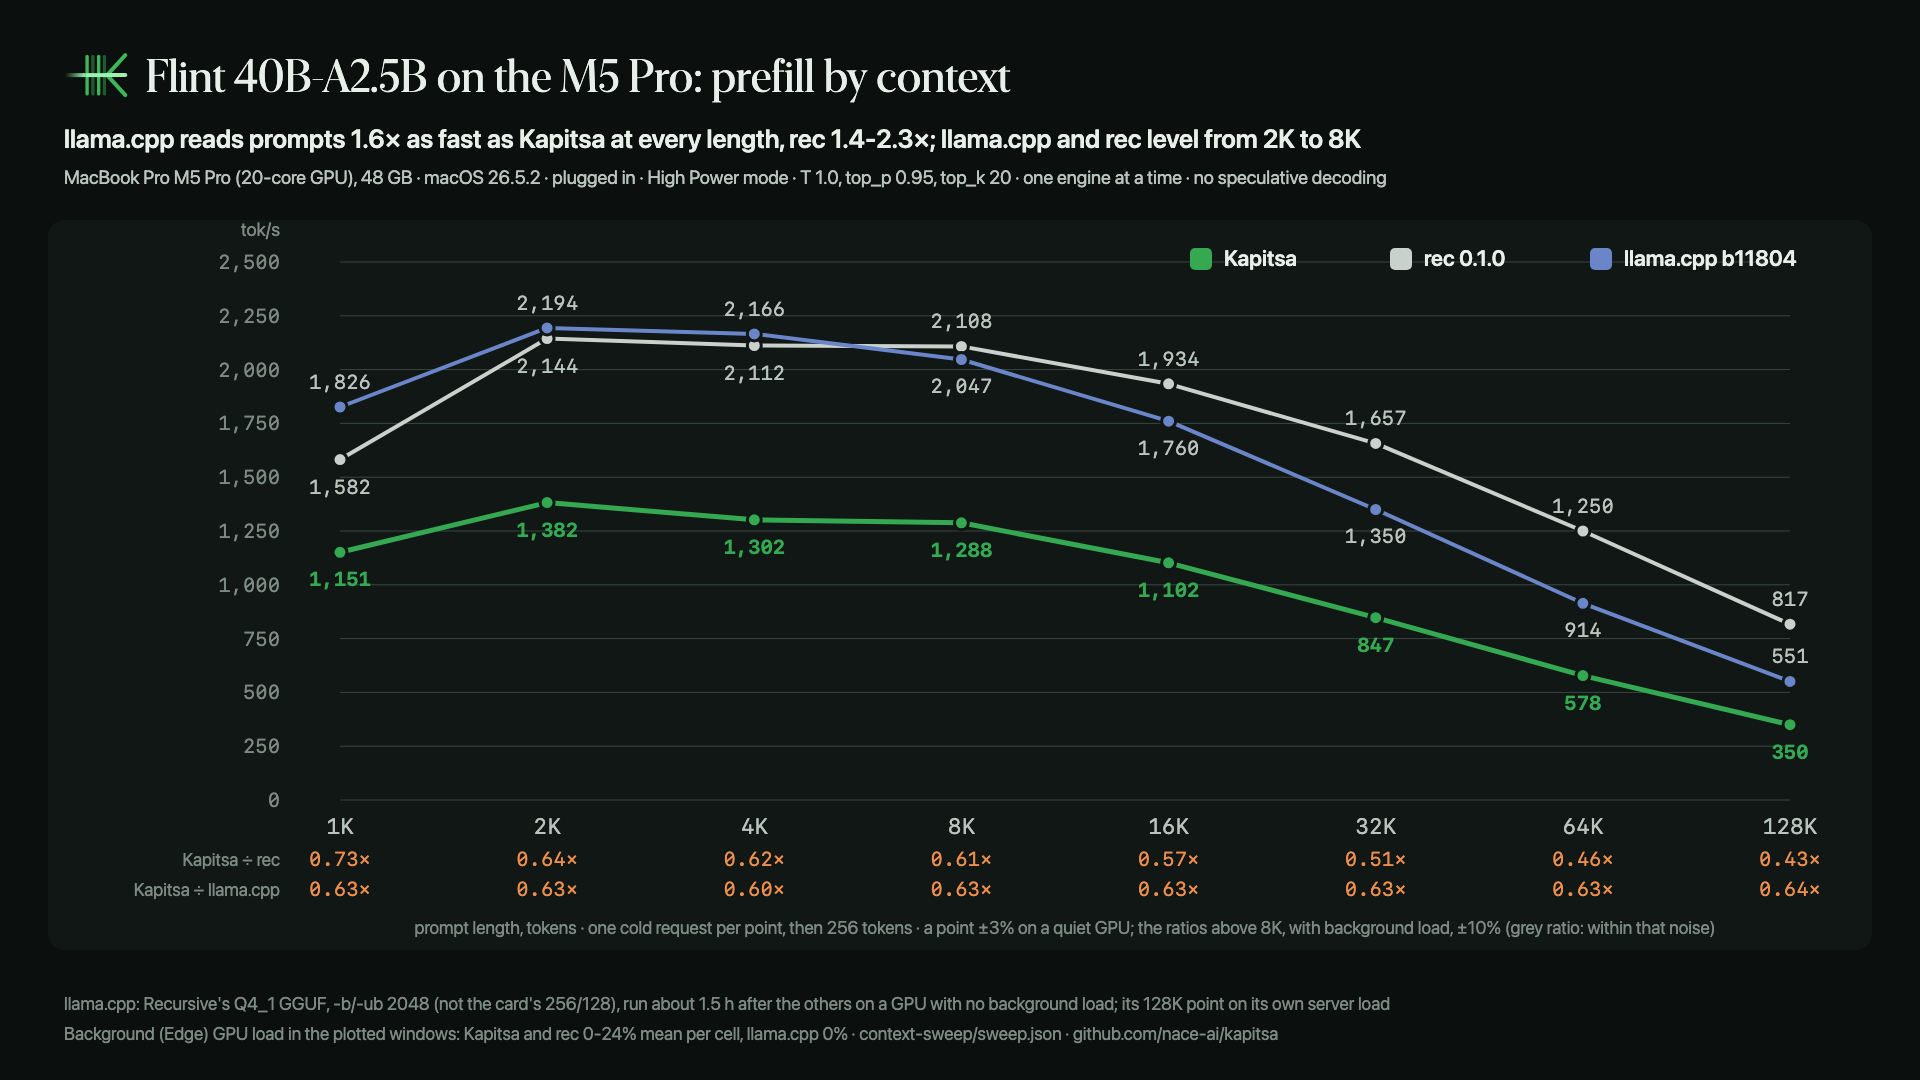
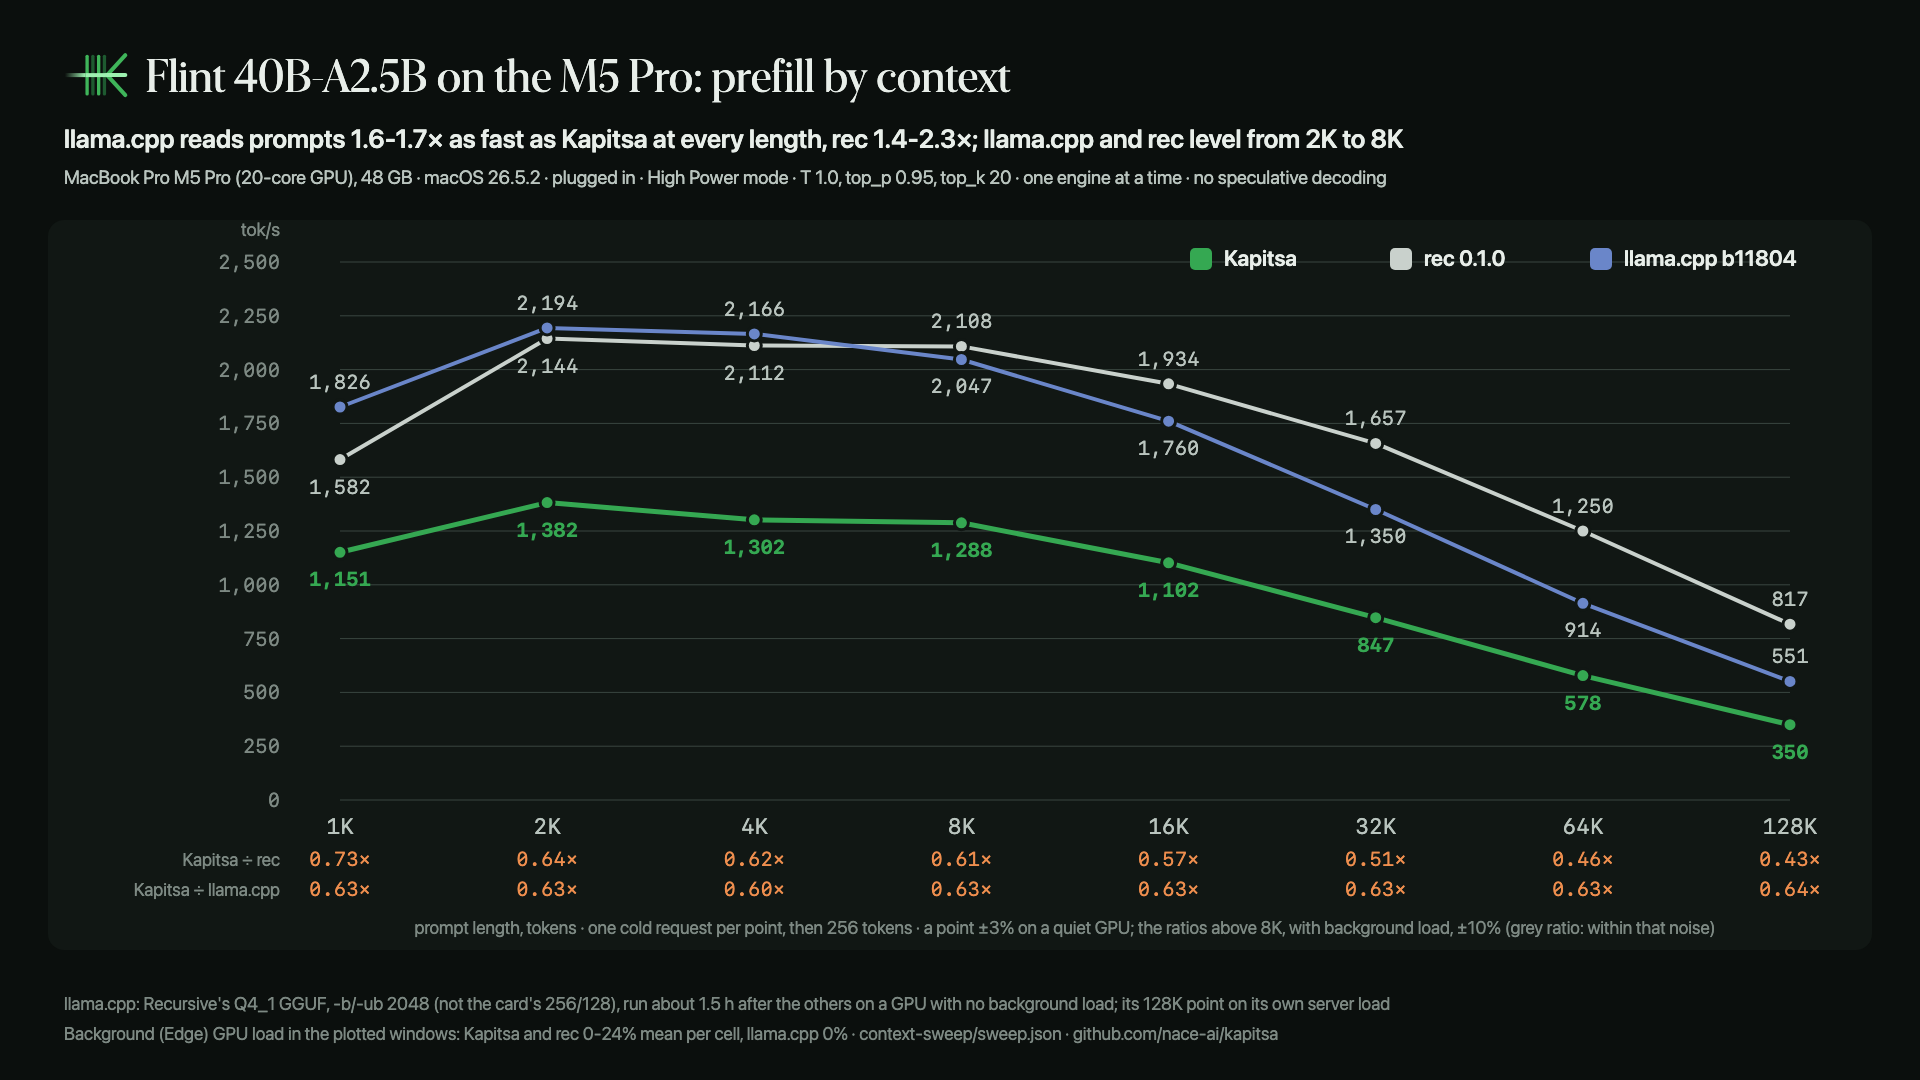
Flint M5 Pro llama.cpp: rec's 16K follow-up median says all three samples; 4-6% and 1.6-1.7x wording; prefill chart subtitle re-rendered

Changed region(s): [[0.1875, 0.1222, 0.75, 0.1528]]

diff --git a/bench/results/2026-10-22-flint-m5pro/charts/flint_charts.py b/bench/results/2026-10-22-flint-m5pro/charts/flint_charts.py
@@ -140,7 +140,7 @@ def main():
             "Kapitsa vs rec: level to 8K, 1.10× at 16-32K (noise), 1.12-1.15× at 64-128K; both 1.4-1.6× llama.cpp"),
         "prefill-by-context": by_context(
             "prefill", "tok/s", "Flint 40B-A2.5B on the M5 Pro: prefill by context",
-            "llama.cpp reads prompts 1.6× as fast as Kapitsa at every length, rec 1.4-2.3×; llama.cpp and rec level from 2K to 8K"),
+            "llama.cpp reads prompts 1.6-1.7× as fast as Kapitsa at every length, rec 1.4-2.3×; llama.cpp and rec level from 2K to 8K"),
     }
     with tempfile.TemporaryDirectory() as tmp:
         tmp = Path(tmp)

diff --git a/bench/results/2026-10-22-flint-m5pro/README.md b/bench/results/2026-10-22-flint-m5pro/README.md
@@ -64,8 +64,8 @@ The poster ranks a row by its decode value, so by that rule the row counts as Ka
 runs' spread and greedy goes the other way: read it as a tie on decode, with rec 1.56x ahead on prefill.
 
 rec's second run (`flint-rec-20261022-161819`) has one more flag: its third cached 16K follow-up stopped at the
-length limit with no content, so the harness stopped that series. Its 16K follow-up TTFT is the median of the two
-valid samples (0.237 s). llama.cpp's run has the same flag at 4K: its third cached follow-up stopped at the length
+length limit with no content, so the harness stopped that series. Its 16K follow-up TTFT, 0.237 s, is the median of all three
+samples, the empty one included (0.310, 0.237, 0.232 s); the two valid ones alone have a median of 0.274 s. llama.cpp's run has the same flag at 4K: its third cached follow-up stopped at the length
 limit with no content; its 4K follow-up TTFT, 0.224 s, is the median of all three samples (0.217-0.235 s), the empty
 one included, and 0.22 s without it.
 
@@ -93,7 +93,7 @@ one included, and 0.22 s without it.
 - **Prefill.** rec reads faster at every length, and its lead grows with the prompt: 1.4x at 1K, 1.6x at 4K, 1.75x at
   16K, 2.3x at 128K. At 128K, rec keeps 39% of its 4K speed and Kapitsa 27%. On the M4 Pro, Kapitsa led at every
   length (1.09-1.22x) and kept 31% at 128K. llama.cpp is ahead of rec at 1K (1.15x), level from 2K to 8K (0.97-1.03x)
-  and behind from 16K (0.91x, 0.67x at 128K), and it reads 1.6x as fast as Kapitsa at every length (Kapitsa
+  and behind from 16K (0.91x, 0.67x at 128K), and it reads 1.6-1.7x as fast as Kapitsa at every length (Kapitsa
   0.60-0.64x). On the M4 Pro, llama.cpp led Kapitsa at 1K-2K (Kapitsa 0.93-0.96x), they were level from 4K to 16K, and Kapitsa led
   from 32K, 1.51x at 128K.
 - **Decode.** The M4 Pro's shape again, but closer: level up to 8K (0.98-1.05x), then Kapitsa 1.10-1.15x ahead from
@@ -106,7 +106,7 @@ one included, and 0.22 s without it.
   (551 against 199) and decodes 1.32x (31.3 against 23.8).
 
 The sweep's 2K and 4K prefill points bracket the harness's 4K numbers above for Kapitsa and rec (Kapitsa 1,382 and
-1,302 against 1,374; rec 2,144 and 2,112 against 2,138). llama.cpp's sit 5-6% above its one harness run (2,194 and
+1,302 against 1,374; rec 2,144 and 2,112 against 2,138). llama.cpp's sit 4-6% above its one harness run (2,194 and
 2,166 against 2,072).
 
 How it ran (`context-sweep/`): `ctx_sweep.py` against each engine's server, started by `sweep_engine.sh` with a long

diff --git a/docs/benchmarks.md b/docs/benchmarks.md
@@ -1990,7 +1990,7 @@ run with less load in its window (for decode, a window of one or two samples, so
 
 - **Prefill.** rec reads faster at every length, 1.4x at 1K, 1.6x at 4K, 2.3x at 128K: the reverse of the M4 Pro, where
   Kapitsa led rec at every length. From the M4 Pro to the M5 Pro, Kapitsa's 4K prefill rises 1.42x and rec's 2.69x;
-  why rec gains so much more was not measured. llama.cpp reads 1.6x as fast as Kapitsa at every length (0.60-0.64x),
+  why rec gains so much more was not measured. llama.cpp reads 1.6-1.7x as fast as Kapitsa at every length (0.60-0.64x),
   level with rec from 2K to 8K and behind it from 16K (0.67x at 128K); on the M4 Pro Kapitsa led it from 32K (1.51x at 128K).
 - **Decode.** Level up to 8K, then Kapitsa 1.10-1.15x ahead from 16K, which is inside the spread: Kapitsa's own 16K
   decode differs by 7% between its two sweeps. In the protocol runs decode is a tie (T 1.0 0.6% apart, greedy rec 2%
